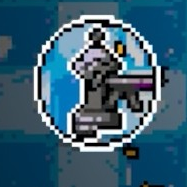
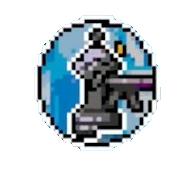
art-audit-q1: Gun King (AWFB4EzGtDc) pawn.png recut from frame_62 (no blue blotches), red_pawn.png from frame_492 (no solid blue square), gun_king.png dark corners outside the round badge made transparent

diff --git a/rebuild/tools/art_q1_fix.py b/rebuild/tools/art_q1_fix.py
@@ -85,6 +85,50 @@ def xiangqi():
         print('GGvp', name, box)
 
 
+def _blob_from_ring(ring, seed, close=1):
+    """piece = the filled region of the ring-coloured outline component that encloses the seed (x, y);
+    falls back to the biggest filled component."""
+    if close:
+        ring = ndi.binary_closing(ring, iterations=close) | ring
+    lab, n = ndi.label(ring, structure=np.ones((3, 3)))
+    best, area = None, 0
+    for i in range(1, n + 1):
+        f = ndi.binary_fill_holes(lab == i)
+        if f[seed[1], seed[0]]:
+            if f.sum() > area: best, area = f, f.sum()
+    if best is None:
+        raise SystemExit(f'no outline encloses {seed}')
+    return best
+
+
+@job
+def gunking():
+    """2. AWFB4EzGtDc Gun King. pawn.png (blue background blotches) recut from video_thumbs/AWFB4EzGtDc_frame_62.jpg ~(1110,686):
+    the grey pawn = its black pixel outline + everything inside. red_pawn.png (solid blue square behind it) from frame_492
+    ~(416,436): the red outline + inside (the neighbouring elite pawn on its right is cut off at x<441).
+    gun_king.png (dark corners outside the round badge): alpha = the white ring + inside."""
+    f = np.asarray(frame('AWFB4EzGtDc', 'frame_62')).astype(np.float32)
+    c = f[630:740, 1070:1160]
+    dark = c.max(-1) < 70
+    fg = _blob_from_ring(dark, (44, 54), 2)
+    fg |= ndi.binary_dilation(fg, iterations=2) & (c.max(-1) < 110)  # keep the full width of the black outline
+    Image.fromarray(np.dstack([c, fg * 255]).astype(np.uint8), 'RGBA')
+    square_canvas(np.dstack([c, fg * 255.0]), None, 2).save(os.path.join(M, 'AWFB4EzGtDc', 'pawn.png'), optimize=True)
+    f = np.asarray(frame('AWFB4EzGtDc', 'frame_492')).astype(np.float32)
+    c = f[390:480, 380:441]
+    r, g, b = c[..., 0], c[..., 1], c[..., 2]
+    red = (r - np.maximum(g, b) > 40)
+    fg = _blob_from_ring(red, (38, 50), 3)
+    fg[70:, 55:] = False  # the neighbouring pawn's outline running down the right edge
+    square_canvas(np.dstack([c, fg * 255.0]), None, 2).save(os.path.join(M, 'AWFB4EzGtDc', 'red_pawn.png'), optimize=True)
+    p = os.path.join(M, 'AWFB4EzGtDc', 'gun_king.png')
+    k = np.asarray(Image.open(p).convert('RGBA')).astype(np.float32)
+    white = k[..., :3].min(-1) > 200
+    fg = _blob_from_ring(white, (k.shape[1] // 2, k.shape[0] // 2), 2)
+    k[..., 3] = np.minimum(k[..., 3], fg * 255)
+    Image.fromarray(k.astype(np.uint8), 'RGBA').save(p, optimize=True)  # same canvas: the king keeps its in-game scale
+
+
 if __name__ == '__main__':
     for k in (sys.argv[1:] or list(JOBS)):
         JOBS[k]()
